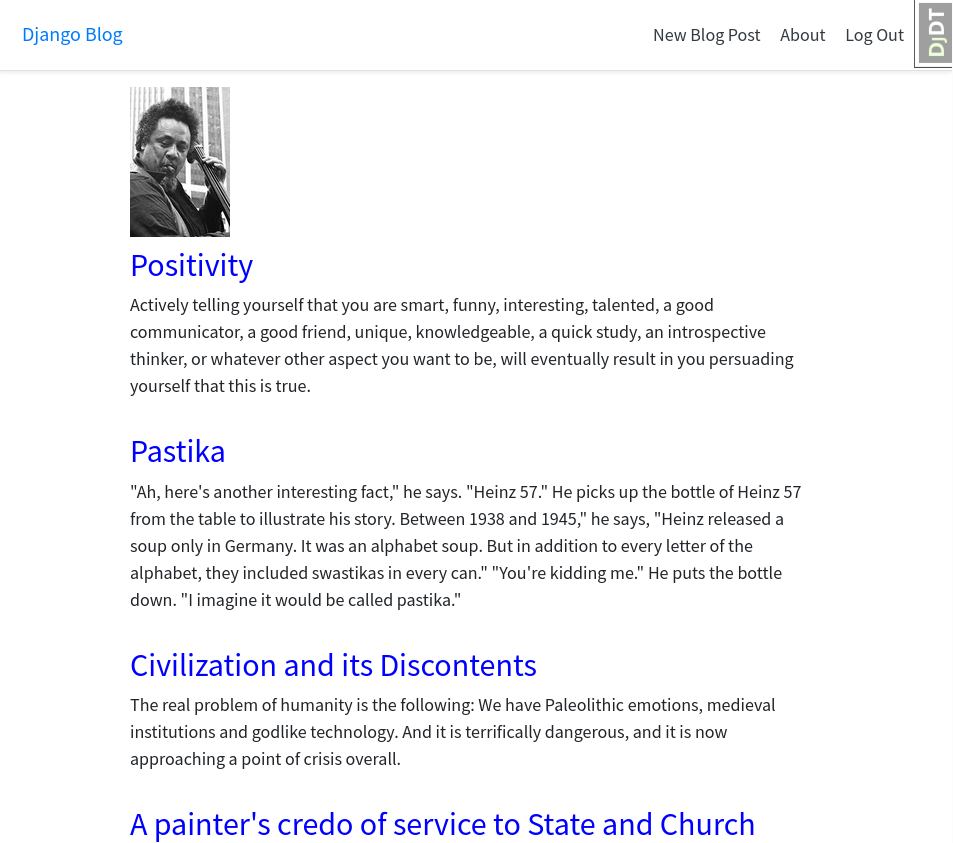
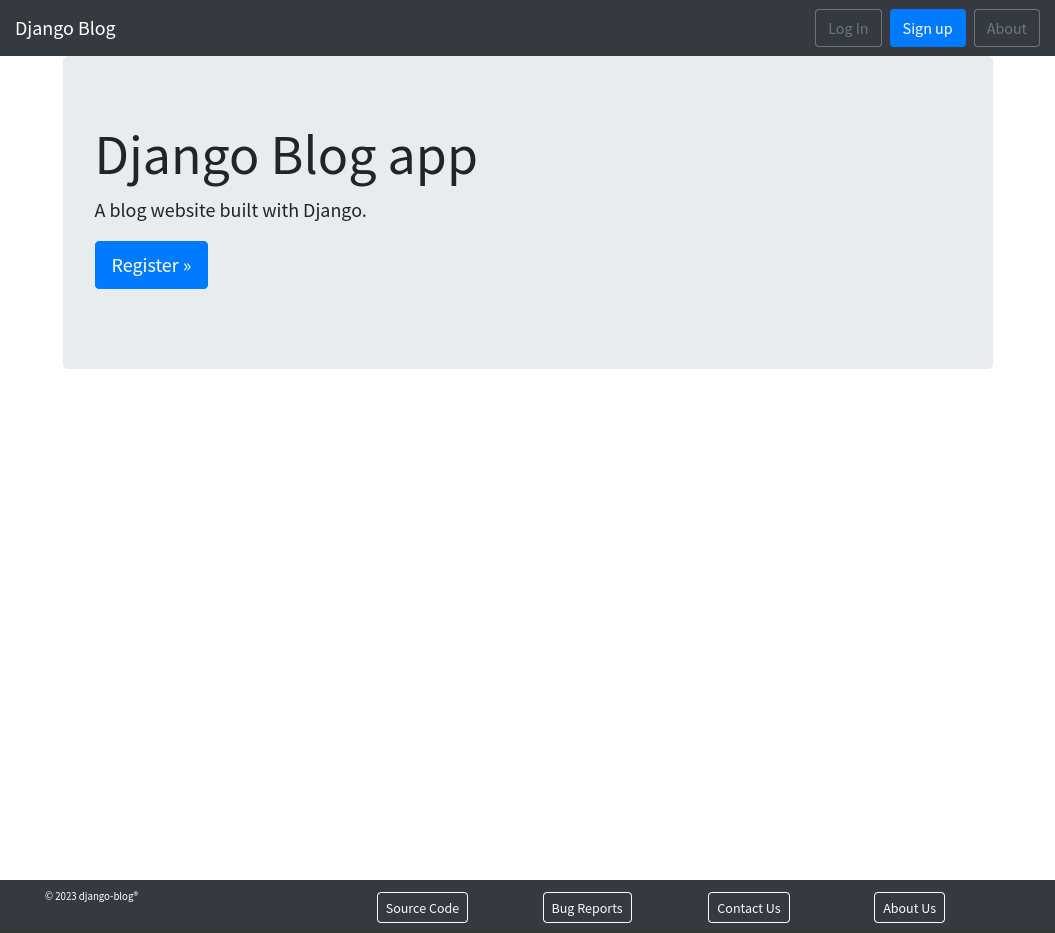
Add screenshots with footer. Resolves #186

diff --git a/README.md b/README.md
@@ -114,6 +114,15 @@ A live application demonstration hosted at ~~Heroku~~:
 ### Home
 ![Home](images/django-blog_homepage.png)
 
+### Blog Index
+![Blog Index](images/django-blog_index.png)
+
+### Sign In Page
+![Sign In Page](images/django-blog_signin.png)
+
+### Profile Page
+![Profile Page](images/django-blog_profilepage.png)
+
 ---
 
 ### Reporting Bugs
